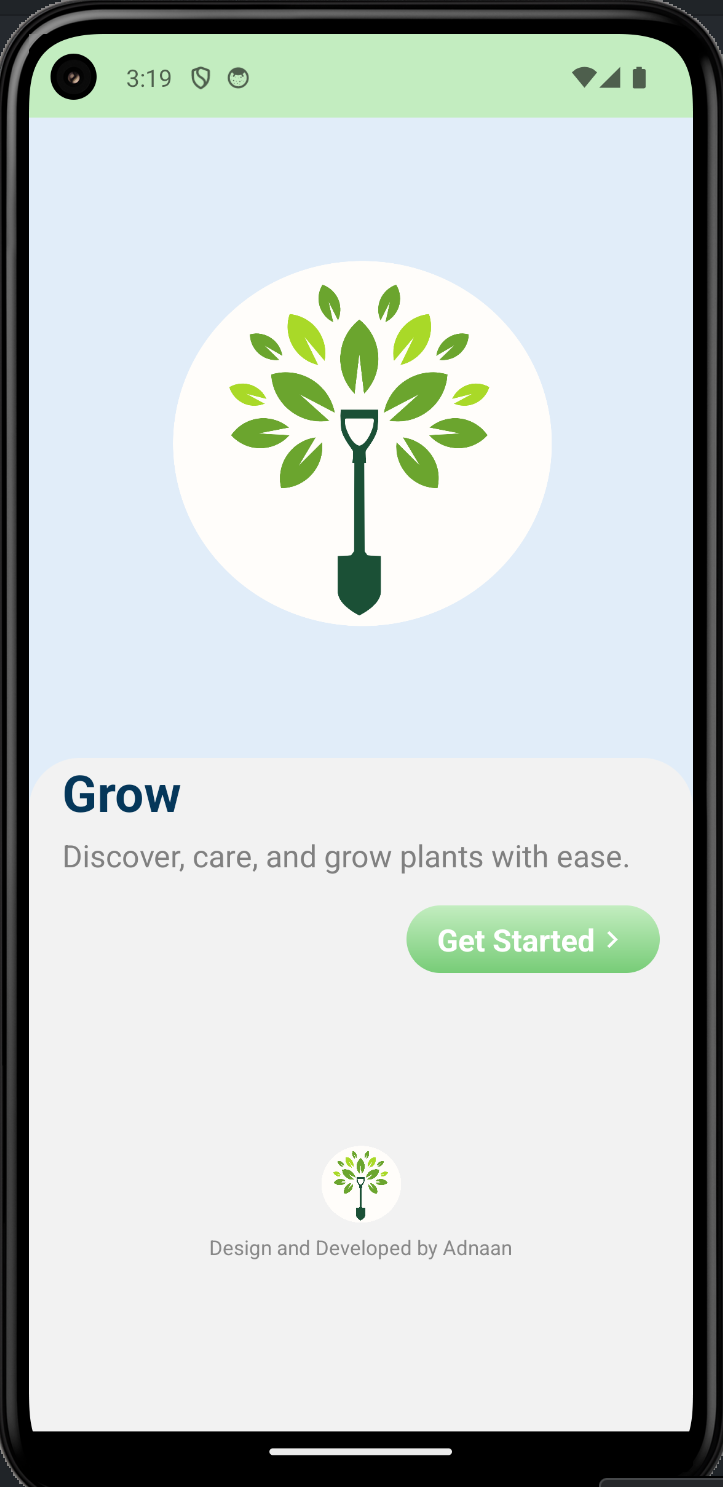
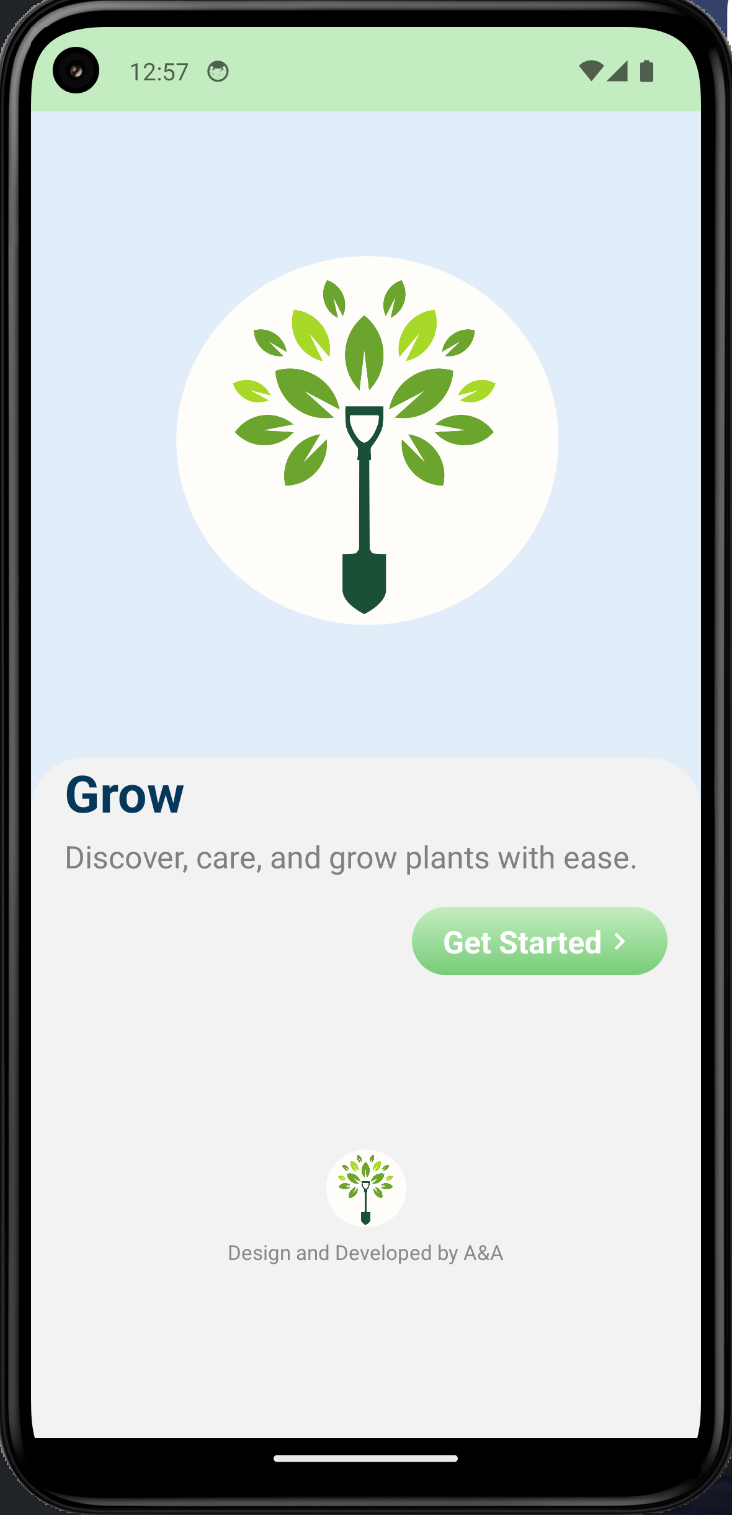
final

diff --git a/src/screens/SelectPlantType/SelectPlantType.js b/src/screens/SelectPlantType/SelectPlantType.js
@@ -24,7 +24,7 @@ const SelectPlantType = () => {
       //192.168.63.161
       //192.168.206.161
       //10.2.20.38
-      const response = await fetch(`http://192.168.247.161:3000/plant_data_detailed?district=${encodedDistrict}&state=${encodedState}&name=${encodedName}`, {
+      const response = await fetch(`http://10.12.200.198:3000/plant_data_detailed?district=${encodedDistrict}&state=${encodedState}&name=${encodedName}`, {
         method: 'get',
         headers: {
           'Content-Type': 'application/json',

diff --git a/src/screens/IdentifyPlant/IdentifyPlant.js b/src/screens/IdentifyPlant/IdentifyPlant.js
@@ -37,7 +37,7 @@ const IdentifyPlant = () => {
       const encodedplantName = encodeURIComponent(plantName);
       //192.168.63.161
       //10.2.20.38
-      const response = await fetch(`http://192.168.247.161:3001/plant_data_detailed?plantName=${encodedplantName}`, {
+      const response = await fetch(`http://10.12.200.198:3001/plant_data_detailed?plantName=${encodedplantName}`, {
         method: 'get',
         headers: {
           'Content-Type': 'application/json',

diff --git a/src/screens/SplashScreen/SplashScreen.js b/src/screens/SplashScreen/SplashScreen.js
@@ -65,7 +65,7 @@ const SplashScreen = ({ navigation }) => {
                         style={styles.footerImage}
                         resizeMode="contain"
                     />
-                    <Text style={styles.footerText}>Design and Developed by Adnaan</Text>
+                    <Text style={styles.footerText}>Design and Developed by A&A</Text>
                 </View>
             </Animatable.View>
         </View>

diff --git a/src/screens/DrawerScreen/DrawerScreen.js b/src/screens/DrawerScreen/DrawerScreen.js
@@ -51,7 +51,7 @@ const CustomDrawerContent = (props) => {
           style={styles.footerImage}
           resizeMode="contain"
         />
-        <Text style={styles.footerText}>Design and Developed by Adnaan</Text>
+        <Text style={styles.footerText}>Design and Developed by A&A</Text>
       </View>
     </DrawerContentScrollView>
   );
